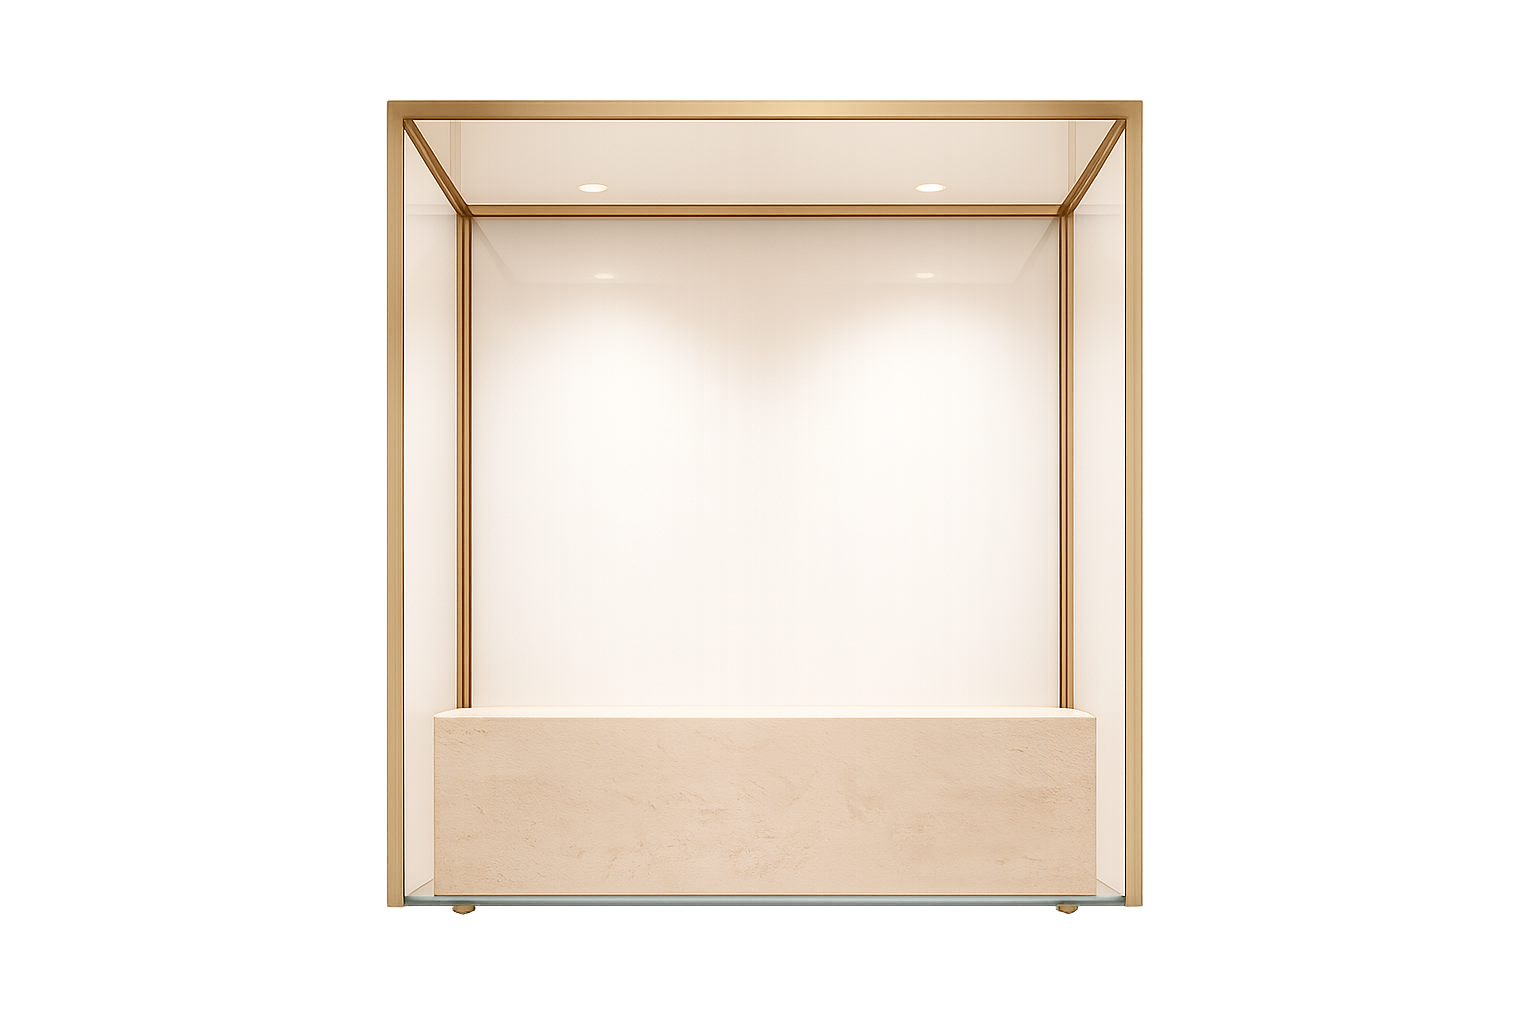
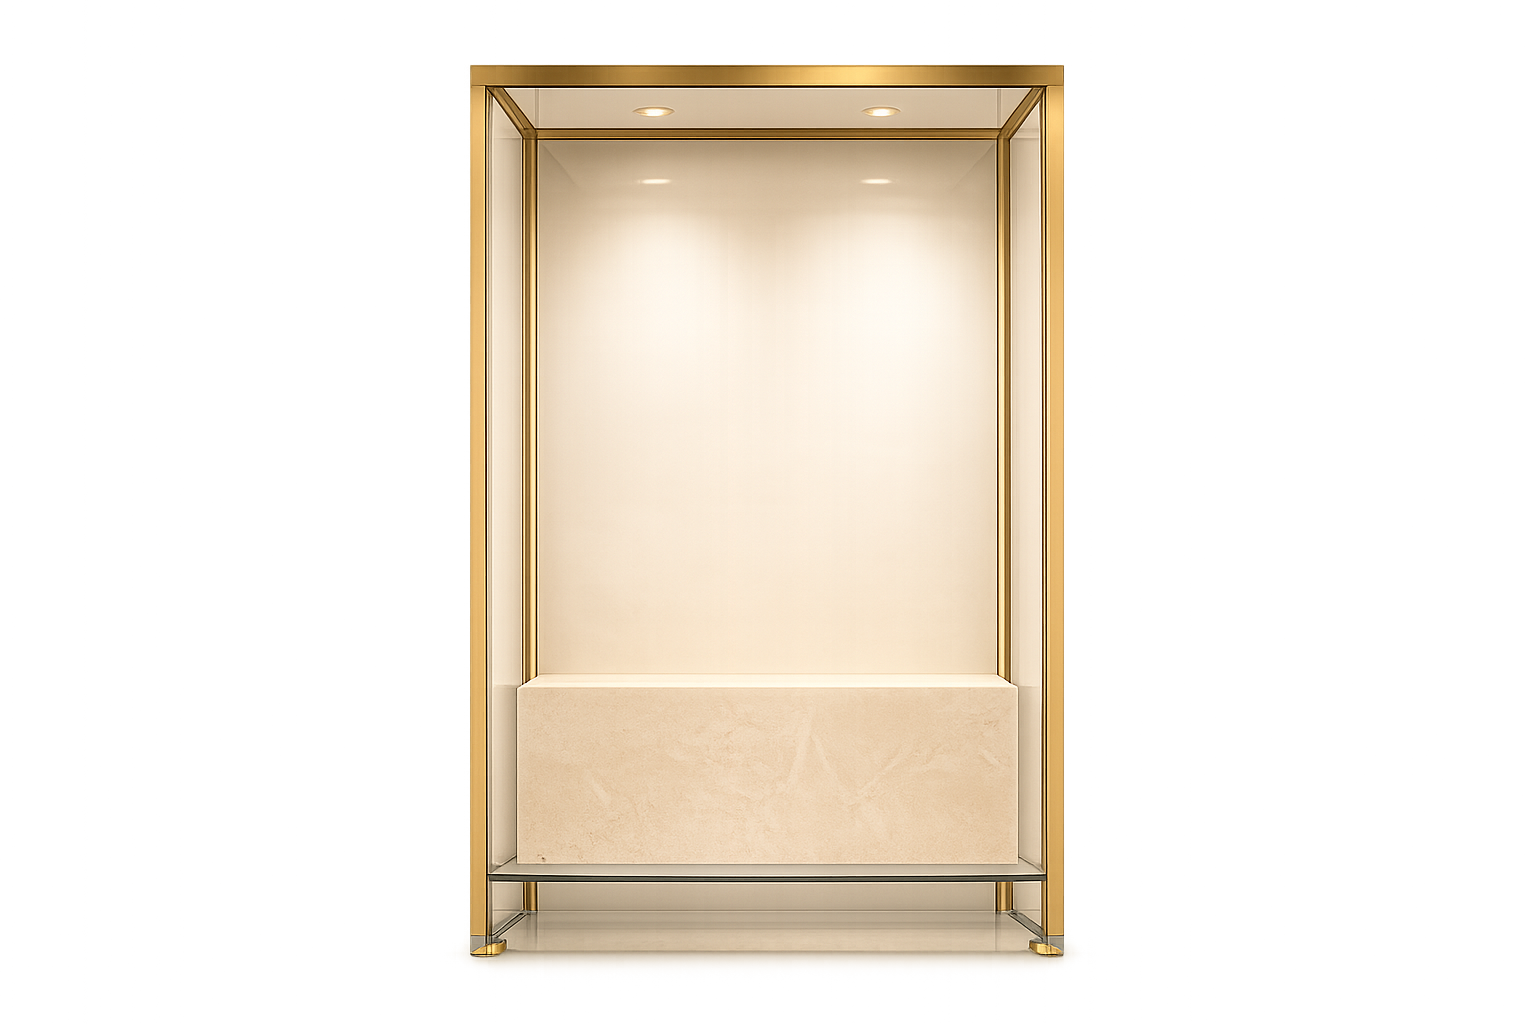
fd

Changed region(s): [[0.25, 0.0625, 0.75, 0.9688]]

diff --git a/src/components/jewelry/BoutiqueRoom.tsx b/src/components/jewelry/BoutiqueRoom.tsx
@@ -34,6 +34,7 @@ const PRODUCT_SHELF_SCALES: Record<ProductId, number> = {
   pro4: 0.43, // Cascade Necklace
   pro5: 0.33, // Starlight Earrings
   pro6: 0.28, // Signature Perfume Showcase
+  proo: 0.65, // Increased scale for bigger product
 };
 
 // Custom resolver to build correct metadata config for any product in any slot
@@ -72,6 +73,7 @@ function getTableProductConfig(
     pro4: 0.52, // Cascade Necklace
     pro5: 0.44,
     pro6: 0.40,
+    proo: 0.45,
   };
 
   const sizePx = tier === "upper" ? 48 : tier === "middle" ? 55 : 62;
@@ -130,15 +132,48 @@ export default function BoutiqueRoom({ visible, focusProgress = 0 }: BoutiqueRoo
           aria-hidden
           className="absolute pointer-events-none"
           style={{
-            top: "27%",
-            left: "9.5%",
-            width: "clamp(150px, 38vw, 530px)", // Width 50px bigger
-            height: "clamp(130px, 23vh, 240px)", // Made height 10px smaller
+            top: "32%", // Placed a little bottom
+            left: "8%", // More space between shelves
+            width: "clamp(85px, calc(40vw - 25px), 500px)", // A little smaller
+            height: "clamp(45px, calc(34vh - 145px), 330px)", // A little smaller
             objectFit: "fill",
-            transform: "translateY(15px)",
             zIndex: 10,
           }}
         />
+
+        {/* Left shelf 3D products overlay container */}
+        <div
+          className="absolute pointer-events-none"
+          style={{
+            top: "32%",
+            left: "8%", // More space between shelves
+            width: "clamp(85px, calc(40vw - 25px), 500px)",
+            height: "clamp(45px, calc(34vh - 145px), 330px)",
+            zIndex: 15,
+          }}
+        >
+          <div className="pointer-events-auto" style={{ position: "absolute", top: "75%", left: "50%", transform: "translate(-50%, -93%)" }}>
+            <div style={{ position: "relative", zIndex: 20 }}>
+              <LineShelfProductMini config={getCustomProductConfig("pro1", 0, "left")} mountDelay={120} />
+            </div>
+            {/* Display Pedestal Box */}
+            <div 
+              style={{
+                position: "absolute",
+                bottom: "15px", 
+                left: "50%",
+                transform: "translateX(-50%)", 
+                width: "45px", 
+                height: "18px", 
+                background: "#D6B697", 
+                border: "1px solid rgba(212, 175, 55, 0.4)", 
+                boxShadow: "0 6px 12px rgba(0,0,0,0.15), inset 0 2px 4px rgba(255,255,255,0.4)",
+                borderRadius: "2px",
+                zIndex: 10
+              }}
+            />
+          </div>
+        </div>
 
         {/* Right shelf PNG — aligned to the right shelf unit in image.png (mirrored) */}
         <img
@@ -147,25 +182,59 @@ export default function BoutiqueRoom({ visible, focusProgress = 0 }: BoutiqueRoo
           aria-hidden
           className="absolute pointer-events-none"
           style={{
-            top: "27%",
-            right: "9.5%",
-            width: "clamp(150px, 38vw, 530px)", // Width 50px bigger
-            height: "clamp(130px, 23vh, 240px)", // Made height 10px smaller
+            top: "32%", // Placed a little bottom
+            right: "8%", // More space between shelves
+            width: "clamp(85px, calc(40vw - 25px), 500px)", // A little smaller
+            height: "clamp(45px, calc(34vh - 145px), 330px)", // A little smaller
             objectFit: "fill",
-            transform: "scaleX(-1) translateY(15px)",
+            transform: "scaleX(-1)",
             zIndex: 10,
           }}
         />
 
+        {/* Right shelf 3D products overlay container */}
+        <div
+          className="absolute pointer-events-none"
+          style={{
+            top: "32%",
+            right: "8%", // More space between shelves
+            width: "clamp(85px, calc(40vw - 25px), 500px)",
+            height: "clamp(45px, calc(34vh - 145px), 330px)",
+            zIndex: 15,
+          }}
+        >
+          <div className="pointer-events-auto" style={{ position: "absolute", top: "75%", left: "50%", transform: "translate(-50%, -93%)" }}>
+            <div style={{ position: "relative", zIndex: 20 }}>
+              <LineShelfProductMini config={getCustomProductConfig("pro2", 2, "right")} mountDelay={360} />
+            </div>
+            {/* Display Pedestal Box */}
+            <div 
+              style={{
+                position: "absolute",
+                bottom: "15px", 
+                left: "50%",
+                transform: "translateX(-50%)", 
+                width: "45px", 
+                height: "18px", 
+                background: "#D6B697", 
+                border: "1px solid rgba(212, 175, 55, 0.4)", 
+                boxShadow: "0 6px 12px rgba(0,0,0,0.15), inset 0 2px 4px rgba(255,255,255,0.4)",
+                borderRadius: "2px",
+                zIndex: 10
+              }}
+            />
+          </div>
+        </div>
+
         {/* 3D Display Table — inside parallax so it moves with the background */}
-        <Table3D opacity={1} />
+        {/* <Table3D opacity={1} /> */}
 
         {/* Luxury 3D Product Carousel positioned directly on the display table surface */}
-        <div
+        {/* <div
           className="absolute bottom-[375px] md:bottom-[460px] left-[50%] -translate-x-1/2 z-[65] w-[92%] max-w-[460px] md:max-w-[720px] flex justify-center items-center pointer-events-none"
         >
           <ProductCarousel3D />
-        </div>
+        </div> */}
 
       </BoutiqueParallaxBg>
 

diff --git a/src/components/jewelry/LineShelfProductMini.tsx b/src/components/jewelry/LineShelfProductMini.tsx
@@ -117,7 +117,9 @@ const ShelfProductGlb = memo(function ShelfProductGlb({
   useLayoutEffect(() => {
     fitProductToUniformSize(scene, config.displaySize);
     optimizeModelForGpu(scene, textureMax);
-    prepareProductMaterials(scene, { castShadow: true, receiveShadow: true, customization, productId: config.productId });
+    if (config.productId !== "proo") {
+      prepareProductMaterials(scene, { castShadow: true, receiveShadow: true, customization, productId: config.productId });
+    }
     scene.traverse((child) => {
       const mesh = child as THREE.Mesh;
       if (mesh.isMesh) mesh.renderOrder = 12;
@@ -125,16 +127,15 @@ const ShelfProductGlb = memo(function ShelfProductGlb({
     invalidate();
   }, [scene, config.displaySize, textureMax, customization, invalidate, config.productId]);
 
-  useFrame(() => {
+  useFrame((state, delta) => {
     if (groupRef.current) {
-      const isTopLeftPerfume = config.productId === "pro6" && config.slotIndex === 0 && config.side === "left";
-      groupRef.current.rotation.y = isTopLeftPerfume ? Math.PI : 0;
+      // Auto-rotation
+      groupRef.current.rotation.y += delta * 0.5;
 
-      // Scale model in sync with HTML container scale
+      // Scale model in sync with HTML container scale (bigger on hover)
       let hoverScale = 1.0;
-      if (isSelected && config.isTable) {
-        const isDesktop = typeof window !== "undefined" && window.innerWidth >= 768;
-        hoverScale = isDesktop ? 1.069 : 1.105;
+      if (isSelected) {
+        hoverScale = 1.15;
       }
       groupRef.current.scale.lerp(new THREE.Vector3(hoverScale, hoverScale, hoverScale), 0.22);
     }
@@ -199,7 +200,9 @@ const ShelfProductFbx = memo(function ShelfProductFbx({
   useLayoutEffect(() => {
     fitProductToUniformSize(scene, config.displaySize);
     optimizeModelForGpu(scene, textureMax);
-    prepareProductMaterials(scene, { castShadow: true, receiveShadow: true, customization, productId: config.productId });
+    if (config.productId !== "proo") {
+      prepareProductMaterials(scene, { castShadow: true, receiveShadow: true, customization, productId: config.productId });
+    }
     scene.traverse((child) => {
       const mesh = child as THREE.Mesh;
       if (mesh.isMesh) mesh.renderOrder = 12;
@@ -207,16 +210,15 @@ const ShelfProductFbx = memo(function ShelfProductFbx({
     invalidate();
   }, [scene, config.displaySize, textureMax, customization, invalidate, config.productId]);
 
-  useFrame(() => {
+  useFrame((state, delta) => {
     if (groupRef.current) {
-      const isTopLeftPerfume = config.productId === "pro6" && config.slotIndex === 0 && config.side === "left";
-      groupRef.current.rotation.y = isTopLeftPerfume ? Math.PI : 0;
+      // Auto-rotation
+      groupRef.current.rotation.y += delta * 0.5;
 
-      // Scale model in sync with HTML container scale
+      // Scale model in sync with HTML container scale (bigger on hover)
       let hoverScale = 1.0;
-      if (isSelected && config.isTable) {
-        const isDesktop = typeof window !== "undefined" && window.innerWidth >= 768;
-        hoverScale = isDesktop ? 1.069 : 1.105;
+      if (isSelected) {
+        hoverScale = 1.15;
       }
       groupRef.current.scale.lerp(new THREE.Vector3(hoverScale, hoverScale, hoverScale), 0.22);
     }

diff --git a/src/lib/products.ts b/src/lib/products.ts
@@ -1,6 +1,6 @@
 import { getProductFilenameFromUrl } from "@/lib/modelAssets";
 
-export const PRODUCT_IDS = ["pro1", "pro2", "pro3", "pro4", "pro5", "pro6"] as const;
+export const PRODUCT_IDS = ["pro1", "pro2", "pro3", "pro4", "pro5", "pro6", "proo"] as const;
 export type ProductId = (typeof PRODUCT_IDS)[number];
 
 export interface Product {
@@ -87,6 +87,17 @@ export const PRODUCTS: Record<ProductId, Product> = {
     price: "PKR 95,000",
     description:
       "Our signature showcase piece anchors the boutique display — designed to draw the eye with refined proportion, warm gold tones, and artisan-level finishing throughout.",
+  },
+  proo: {
+    id: "proo",
+    title: "Exclusive Addition",
+    category: "Featured",
+    tagline: "A new standard of luxury",
+    materials: "CUSTOM",
+    features: ["Exclusive design"],
+    modelFile: "proo.glb",
+    price: "PKR 0",
+    description: "Newly added custom showcase product.",
   },
 };
 

diff --git a/src/components/jewelry/ProductCarousel3D.tsx b/src/components/jewelry/ProductCarousel3D.tsx
@@ -15,6 +15,7 @@ const CAROUSEL_SCALES: Record<ProductId, number> = {
   pro4: 0.54, // Cascade Necklace
   pro5: 0.38, // Starlight Earrings (Sovereign Pendant)
   pro6: 0.32, // Signature Perfume Showcase
+  proo: 0.40, // New exclusive addition
 };
 
 function getCarouselProductConfig(productId: ProductId, index: number): LineShelfProductConfig {